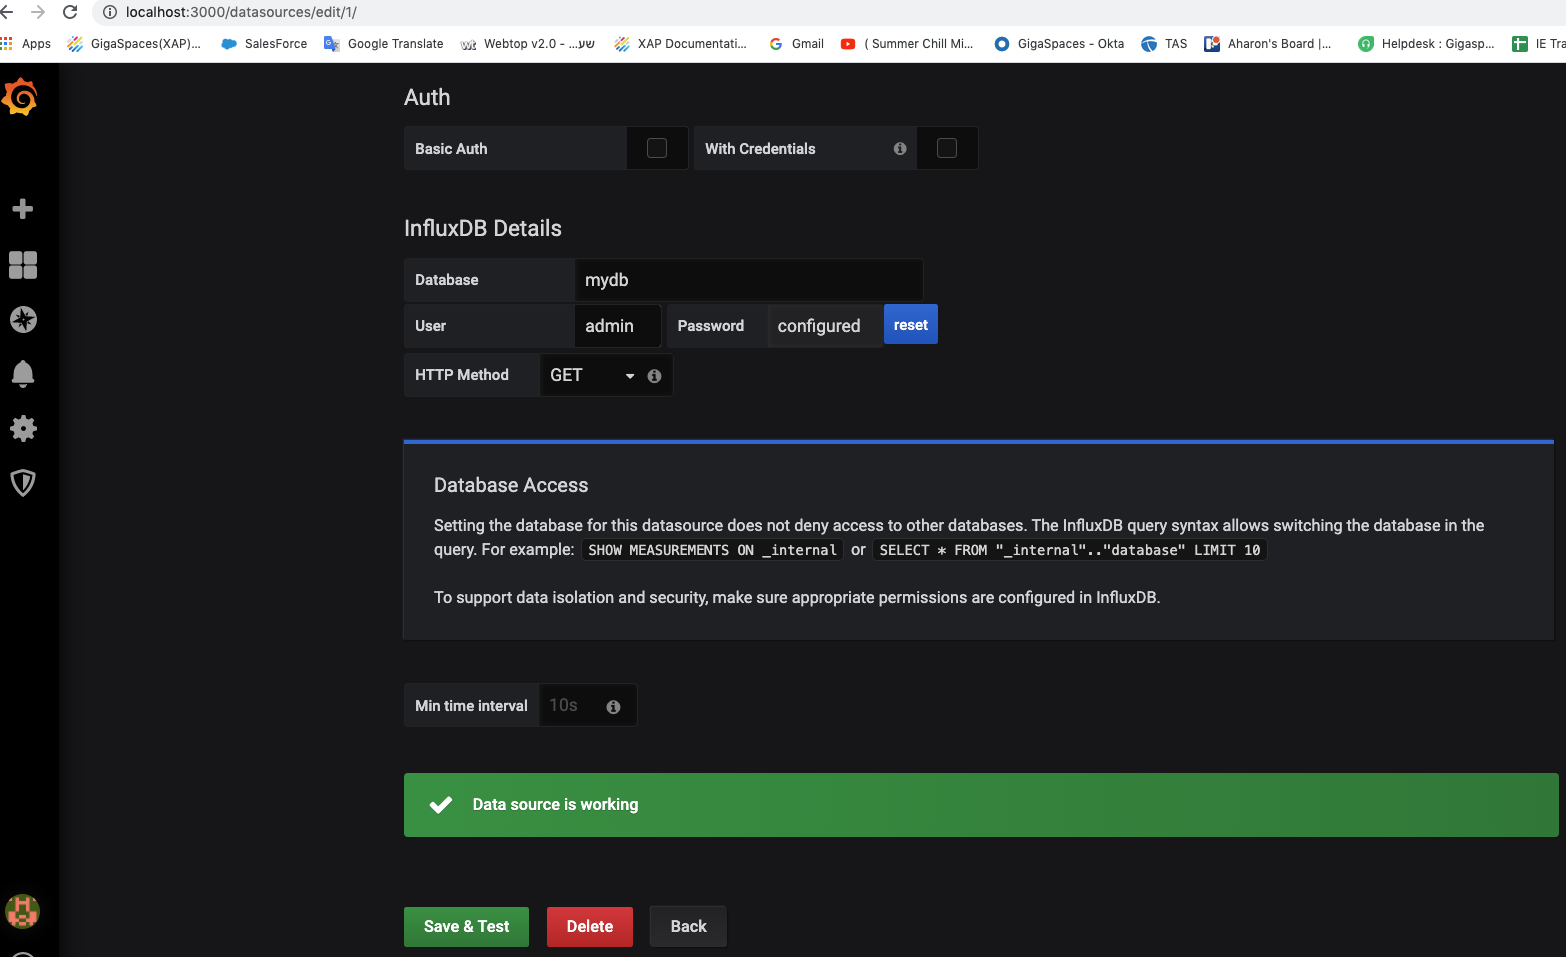
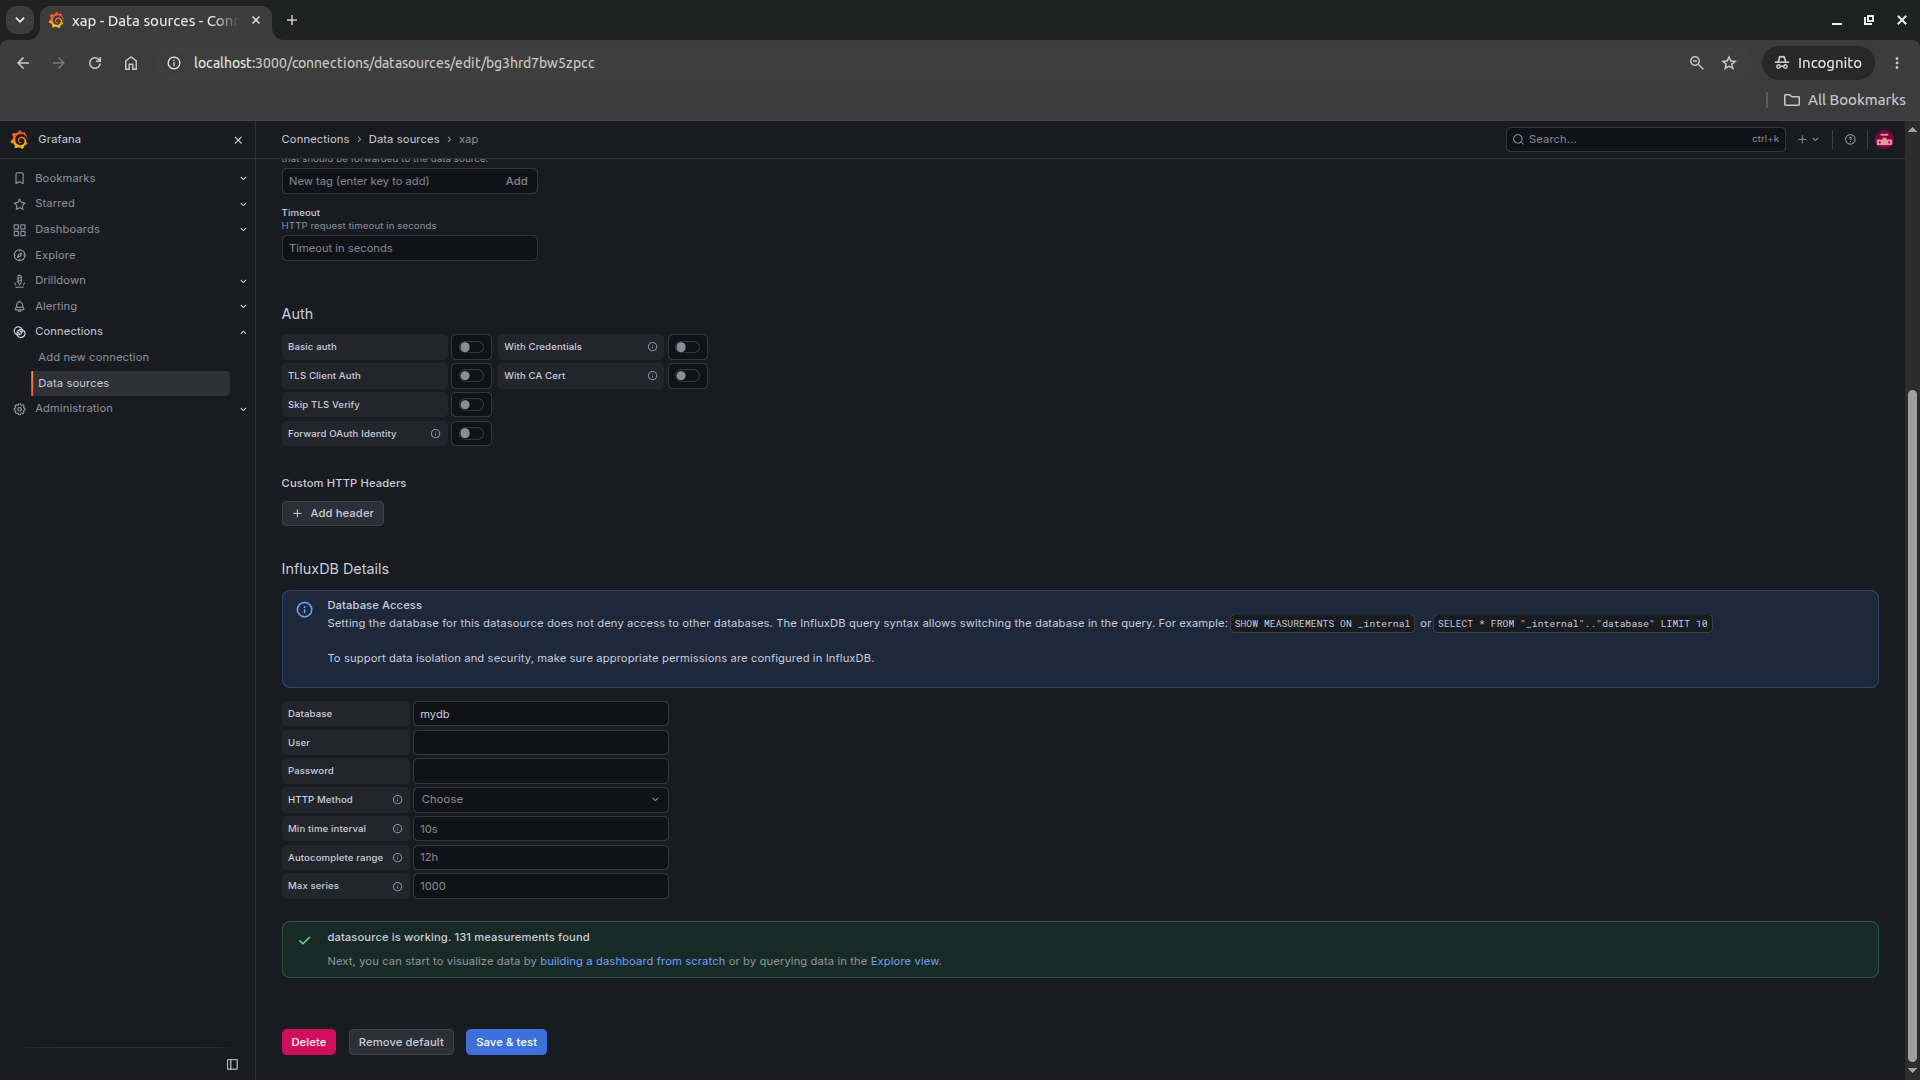
lab06, lab07: update for GigaSpaces 18.0.1
lab06-metrics:
- Replace gs.sh demo with explicit run-agent (--manager --webui --restv3 --gsc=4) and a space deploy
- Use "docker compose"; remove the obsolete "version" key from docker-compose.yaml
- Point to the current metrics-configuration docs page; remove the stale docs link
- Note that Grafana dashboard auto-import fails on current Grafana; import manually
- Remove the browser-access tip and Picture1; replace Picture2 with a Grafana 13.3 screenshot
- Step 7: use writeObjects.sh from lab03 and the "GigaSpaces Spaces dashboard_new" dashboard

lab07-gigaspaces_manager:
- Replace the Vagrant setup with a 4-node Docker Compose cluster (3 managers + 1 GSC host)
- State that Docker Compose is for lab use only; use Kubernetes (lab13) for containers
- Keep the Vagrant instructions as an older version in Vagrant/README.md (17.3.0)
- Update the CLI examples to REST v3 on ports 9091-9093; remove Picture2
- zk-client-example: GigaSpaces 18.0.1, ZooKeeper 3.9.6, connect to localhost:2181

README.md: update the lab07 description

diff --git a/lab07-gigaspaces_manager/README.md b/lab07-gigaspaces_manager/README.md
@@ -4,106 +4,93 @@
 
 ## Lab Goals
 
-1. See how easy it is to setup a GigaSpaces cluster.
-2. Get familiar with GS Manager's capabilities.
+1. Get familiar with GS Manager's capabilities.
 
 ## Lab Description
 In this lab we will focus on the GS Manager functionality.  
-To better know its capabilities you will set up 4 machine cluster based on Vagrant.
+To better know its capabilities you will set up a 4 node cluster with Docker Compose: 3 nodes run a GigaSpaces Manager (node1, node2, node3) and 1 node runs without a manager (node4). Each node is a separate container with its own GigaSpaces agent, like a separate machine.
 
-### 1 Setup Vagrant framework on your machine
+**Note:** Docker Compose is used here only as a lab convenience, to simulate several machines on one computer. It is not a recommended way to deploy GigaSpaces. For a containerized or virtualized environment, use Kubernetes (see [lab13-kubernetes](../lab13-kubernetes)).
 
-#### Install VirtualBox
+*An older version of this lab, which uses VirtualBox and Vagrant, is in [Vagrant/README.md](Vagrant/README.md).*
 
-https://www.virtualbox.org/wiki/Downloads
+### 1 Prerequisites
 
-#### Install Vagrant
+* Docker with Docker Compose (`docker compose`): https://docs.docker.com/compose/install/
+* Your local GigaSpaces installation (`$GS_HOME`), to run the CLI. GigaSpaces 18.0 requires Java 25.
+* About 6 GB of disk space for the `gigaspaces/smart-cache-enterprise` image.
 
-https://www.vagrantup.com/downloads.html
+### 2 Start the cluster
 
-### 2 "vagrant up" and provisioning your virtual machine
+1. `cd $GS_ADMIN_TRAINING/lab07-gigaspaces_manager/docker`
+2. `docker compose up -d`  
+   The first run downloads the `gigaspaces/smart-cache-enterprise:18.0.1` image. To use a different version, set `GS_IMAGE_TAG`, for example `GS_IMAGE_TAG=18.0.0 docker compose up -d`.
+3. Wait about 30 seconds until the managers are up. `docker compose ps` should show node1 to node4 running.
 
-1. `cd ~/gs-admin-training/lab07-gigaspaces_manager/Vagrant`
-2. `vagrant up`
-3. Wait until all 4 virtual machines are booted and ready.
+The [docker-compose.yaml](docker/docker-compose.yaml) file sets `GS_MANAGER_SERVERS=node1,node2,node3` on every node, the same setting you put in `setenv-overrides.sh` in earlier labs. The managers on node1 to node3 form the cluster (ZooKeeper quorum, lookup service and GSM), and node4 joins it as a host with one container (GSC).
 
-See in the following screenshot node3 is done (booted and ready) and immediately after node2 has started to boot...  
-![Screenshot](./Pictures/Picture1.png)
+Each manager's REST Manager (port 9090 inside the container) is mapped to a different port on your machine:
 
-**Note:** For more information on "How to Set Up a Local Linux Environment with Vagrant":  
-`https://medium.com/@JohnFoderaro/how-to-set-up-a-local-linux-environment-with-vagrant-163f0ba4da77`
-
+| Node | Runs | From your machine |
+|------|------|-------------------|
+| node1 | GigaSpaces Manager, REST Manager, web UI | http://localhost:9091 (SpaceDeck), ZooKeeper on localhost:2181 |
+| node2 | GigaSpaces Manager, REST Manager | localhost:9092 |
+| node3 | GigaSpaces Manager, REST Manager | localhost:9093 |
+| node4 | 1 container (GSC), no GigaSpaces Manager | localhost:9094 (nothing answers) |
 
 ### 3 Explore the cluster
 
 Please connect to the REST Manager using the cli. You will need to use your local `$GS_HOME` installation. See commands below.   
-It should be available on all manager machines: node1, node2 and node3.  
-On node4 you shouldn't be able to connect to the REST Manager as it is a machine without GigaSpaces Manager.  
+It should be available on all manager nodes: node1, node2 and node3 (ports 9091, 9092 and 9093).  
+On node4 (port 9094) you shouldn't be able to connect to the REST Manager as it is a node without GigaSpaces Manager.  
 *Note: Use the --server option to connect to a specific GigaSpaces Manager node.*  
 ```
-dixson@dixson-pc:~/gigaspaces-smart-cache-enterprise-17.3.0/bin$ ./gs.sh --server=10.211.55.101:8090 host list
+$ cd $GS_HOME/bin
+$ ./gs.sh --server=localhost:9091 host list
 
-HOST NAME    HOST ADDRESS     CONTAINERS COUNT    
-node4        10.211.55.104    0                   
-node2        10.211.55.102    0                   
-node3        10.211.55.103    0                   
-node1        10.211.55.101    0                   
+HOST NAME    HOST ADDRESS    CONTAINERS COUNT    
+node3        172.18.0.3      0                   
+node1        172.18.0.4      0                   
+node4        172.18.0.5      1                   
+node2        172.18.0.2      0                   
 
 
 SUMMARY        
 Hosts:         4    
-Containers:    0    
+Containers:    1    
 
-dixson@dixson-pc:~/gigaspaces-smart-cache-enterprise-17.3.0/bin$ ./gs.sh --server=10.211.55.101:8090 info
+$ ./gs.sh --server=localhost:9091 info
 
 INFO
-Lookups Groups   xap-17.3.0
+Lookups Groups   xap-18.0.1
 Managers         node1,node2,node3
-Revision         17.3.0
-Started On       2025-10-07 18:30:25.514
-Version          17.3.0
+Revision         18.0.1
+Started On       2026-11-06 16:31:15.852
+Version          18.0.1
 
+$ ./gs.sh --server=localhost:9094 host list
+
+Failed to identify cluster type, please make sure the Manager is up and running
 ```
+Run `host list` with `--server=localhost:9092` and `--server=localhost:9093` too: every manager reports the same 4 hosts.
 
 If you see the above, lab has been completed successfully by you :-)
 
-
-**Tip:**  
-To login to the machines goto the Vagrant directory and run:<br>
-    `vagrant ssh node1` (e.g. login to node1)
+**Tips:**
+* To open a shell on a node, run `docker exec -it node1 bash` (e.g. login to node1). GigaSpaces is installed in `/opt/gigaspaces`, and its logs are in `/opt/gigaspaces/logs`.
+* To see a node's console output, run `docker compose logs node1`.
 
 ### 4 Explore Apache ZooKeeper under the hood (optional section if time permits)
 
- * Open `$GS_TRAINING_HOME/lab07-gigaspaces_manager/zk-client-example` project with Intellij (open pom.xml).
+ * Open `$GS_ADMIN_TRAINING/lab07-gigaspaces_manager/zk-client-example` project with Intellij (open pom.xml).
  * Copy the [runConfigurations](zk-client-example/runConfigurations) directory to .idea folder. Restart Intellij.
  * The project has a simple Java program that can traverse the Zookeeper nodes and print its data.
- * Run the zk-client-example run configuration from Intellij.
- * Explore GS ZK tree to better understand GigaSpaces and the information stored in ZK.
+ * Run the zk-client-example run configuration from Intellij. It connects to node1's ZooKeeper at `localhost:2181`.
+ * Explore GS ZK tree to better understand GigaSpaces and the information stored in ZK. For example, `/zookeeper/config` lists the 3 ZooKeeper servers (node1, node2, node3), and `/xap/managers/gsm/leader-election/participants` has one entry per manager.
 
-### 5 Note:
+### 5 Stop the cluster
 
- * If you see the following error:
-
-The IP address configured for the host-only network is not within the
-allowed ranges. Please update the address used to be within the allowed
-ranges and run the command again.
-
-Continue with the recommendations mentioned.
-
-Edit `/etc/vbox/networks.conf`, add the following:
 ```
-      * 10.0.0.0/8 192.168.0.0/16
-      * 2001::/64
+cd $GS_ADMIN_TRAINING/lab07-gigaspaces_manager/docker
+docker compose down
 ```
- * To determine the ip address to access the ui:
-```
-vagrant ssh node1
-ip address show
-```
-For example:
-| Node | IP Address |
-|------|------------|
-| Node1 | http://10.211.55.101:8090/ |
-| Node2 | http://10.211.55.102:8090/ |
-| Node3 | http://10.211.55.103:8090/ |
-| Node4 | 10.211.55.104 (No web-ui or GigaSpaces Manager running)|     

diff --git a/lab06-metrics/README.md b/lab06-metrics/README.md
@@ -20,10 +20,10 @@ To better understand its capabilities you will set up InfluxDB and Grafana.
 
     * InfluxDB installation using docker compose  
       https://docs.docker.com/compose/install/  
-      `docker-compose` is used for the convenience of managing the network communication between multiple containers. 
+      Docker Compose (`docker compose`) is used for the convenience of managing the network communication between multiple containers. 
       ```
       cd $GS_ADMIN_TRAINING/lab06-metrics
-      docker-compose up
+      docker compose up
       ```
 
 2. Create mydb database
@@ -41,12 +41,12 @@ To better understand its capabilities you will set up InfluxDB and Grafana.
 
 ### 2 Download and install Grafana
 
-1. Choose for your convenient 1 of the following 2 options:
+1. Choose for your convenience, 1 of the following 2 options:
 
    * Grafana regular installation:  
      https://grafana.com/get
    * Grafana installation using docker compose:  
-     Grafana was already started when `docker-compose up` was run for InfluxDB.
+     Grafana was already started when `docker compose up` was run for InfluxDB.
 
 2. Verify Grafana is up and running
 
@@ -57,7 +57,7 @@ To better understand its capabilities you will set up InfluxDB and Grafana.
 
 ### 3 Activate GS metrics
 Please follow instructions at:  
-https://docs.gigaspaces.com/latest/admin/web-management-monitoring.html#InstallingandConfiguringGrafana
+https://docs.gigaspaces.com/latest/admin/metrics-configuration.html#Configuration
 
 *Edit the* `$GS_HOME/config/metrics/metrics.properties` *file, look for the InfluxDB and Grafana sections and uncomment them*.  
 (Beginning with 17.3.0, `metrics.xml` has been replaced by `metrics.properties`.) For this lab the following settings are sufficient:
@@ -76,25 +76,26 @@ grafana.datasource.access=proxy
 ```
 The metrics configuration is read when the service grid starts, so make these changes before running the next step.
 
-### 4 Run GS in Demo mode
-This will start the service grid and deploy a space.
-```
-$GS_HOME/bin/gs.sh demo
-```    
+### 4 Start the service grid and deploy a space
+1. Go to `$GS_HOME/bin`
+2. Make sure `GS_MANAGER_SERVERS` is set in `setenv-overrides.sh`:
+   ```
+   export GS_MANAGER_SERVERS="localhost"
+   ```
+3. Start the service grid: `./gs.sh host run-agent --manager --webui --restv3 --gsc=4`
+4. In a new console window in `$GS_HOME/bin`, deploy a space named `demo` with 2 partitions and 1 backup each:
+   ```
+   ./gs.sh space deploy --partitions=2 --ha demo
+   ```
 ### 5 Explore Grafana dashboards
 
-Please explore Grafana GS dashboard and see that metrics are arriving:  
-https://docs.gigaspaces.com/latest/admin/web-management-monitoring.html#GettingStarted
+Please explore Grafana GS dashboard and see that metrics are arriving:
 
 ![Screenshot](./Pictures/Picture3.png)
 
-Note: GigaSpaces creates the `xap` datasource in Grafana and tries to load the dashboards automatically. If no GigaSpaces dashboards appear in Grafana (check the manager log for `Failed to add dashboard`), import them manually from `$GS_HOME/config/grafana/dashboards` (Grafana: Dashboards | New | Import | Upload dashboard JSON file). Use the files at the top level of that directory (titles ending in `_new`), which match the 17.3.0 metric names; the files under `refs/` are the older dashboards and several of their panels will be empty.
+Note: GigaSpaces creates the `xap` datasource in Grafana and tries to load the dashboards automatically. If no GigaSpaces dashboards appear in Grafana (check the restv3 log, `$GS_HOME/logs/*-gigaspaces-restv3_*.log`, for `Failed to add dashboard`), import them manually from `$GS_HOME/config/grafana/dashboards` (Grafana: Dashboards | New | Import | Upload dashboard JSON file). Use the files at the top level of that directory (titles ending in `_new`), which match the metric names used since 17.3.0 (verified on 18.0.1); the files under `refs/` are the older dashboards and several of their panels will be empty.
 
 ### 6 Troubleshooting:
-
-* Sometimes there is a need to change access from server (default) to Browser.
-  
-![Screenshot](./Pictures/Picture1.png)
 
 * InfluxDB connectivity test can be done:
 ![Screenshot](./Pictures/Picture2.png)
@@ -115,9 +116,11 @@ http://localhost:8086/query?db=mydb&q=SELECT%20*%20from%20%22space_data_total-re
 
 ### 7 Space dashboard:
 
-Please use the GS benchmark tool as you did in lab03-application_components and explore the Space-demo dashboard:
+Write objects to the `demo` space with the benchmark tool from lab03-application_components (`mvn package` in `$GS_ADMIN_TRAINING/lab03-application_components`, then run `scripts/writeObjects.sh`; GigaSpaces 18.0 requires Java 25). Then explore the **GigaSpaces Spaces dashboard_new** dashboard (open it from the Grafana Dashboards list and select Space `demo`) and see the write operations and entries arrive.
+
+*Legacy: the screenshot below shows the older Space-demo dashboard, whose panels used metric names that have since been removed.*
 ![Screenshot](./Pictures/Picture4.png)
 
-### 6 Additional Resources
+### 8 Additional Resources
  * https://hub.docker.com/_/influxdb  
  * https://hub.docker.com/r/grafana/grafana

diff --git a/lab07-gigaspaces_manager/Vagrant/README.md b/lab07-gigaspaces_manager/Vagrant/README.md
@@ -1,0 +1,96 @@
+# gs-admin-training - lab07-gigaspaces_manager (older version: Vagrant)
+
+> **Older version of this lab.** This is the VirtualBox + Vagrant version of lab07, kept for reference. It was last updated for GigaSpaces 17.3.0 and has not been updated for 18.0 (its scripts still install Java 17, download GigaSpaces 17.3.0 and use the REST Manager on port 8090).
+> For the current version of the lab, which uses Docker, see the [lab07 README](../README.md).
+
+## Lab Description
+In this version of the lab you set up a 4 machine cluster based on Vagrant.
+
+### 1 Setup Vagrant framework on your machine
+
+#### Install VirtualBox
+
+https://www.virtualbox.org/wiki/Downloads
+
+#### Install Vagrant
+
+https://www.vagrantup.com/downloads.html
+
+### 2 "vagrant up" and provisioning your virtual machine
+
+1. `cd ~/gs-admin-training/lab07-gigaspaces_manager/Vagrant`
+2. `vagrant up`
+3. Wait until all 4 virtual machines are booted and ready.
+
+See in the following screenshot node3 is done (booted and ready) and immediately after node2 has started to boot...  
+![Screenshot](../Pictures/Picture1.png)
+
+**Note:** For more information on "How to Set Up a Local Linux Environment with Vagrant":  
+`https://medium.com/@JohnFoderaro/how-to-set-up-a-local-linux-environment-with-vagrant-163f0ba4da77`
+
+
+### 3 Explore the cluster
+
+Please connect to the REST Manager using the cli. You will need to use your local `$GS_HOME` installation. See commands below.   
+It should be available on all manager machines: node1, node2 and node3.  
+On node4 you shouldn't be able to connect to the REST Manager as it is a machine without GigaSpaces Manager.  
+*Note: Use the --server option to connect to a specific GigaSpaces Manager node.*  
+```
+dixson@dixson-pc:~/gigaspaces-smart-cache-enterprise-17.3.0/bin$ ./gs.sh --server=10.211.55.101:8090 host list
+
+HOST NAME    HOST ADDRESS     CONTAINERS COUNT    
+node4        10.211.55.104    0                   
+node2        10.211.55.102    0                   
+node3        10.211.55.103    0                   
+node1        10.211.55.101    0                   
+
+
+SUMMARY        
+Hosts:         4    
+Containers:    0    
+
+dixson@dixson-pc:~/gigaspaces-smart-cache-enterprise-17.3.0/bin$ ./gs.sh --server=10.211.55.101:8090 info
+
+INFO
+Lookups Groups   xap-17.3.0
+Managers         node1,node2,node3
+Revision         17.3.0
+Started On       2025-10-07 18:30:25.514
+Version          17.3.0
+
+```
+
+If you see the above, lab has been completed successfully by you :-)
+
+
+**Tip:**  
+To login to the machines goto the Vagrant directory and run:<br>
+    `vagrant ssh node1` (e.g. login to node1)
+
+### 4 Note:
+
+ * If you see the following error:
+
+The IP address configured for the host-only network is not within the
+allowed ranges. Please update the address used to be within the allowed
+ranges and run the command again.
+
+Continue with the recommendations mentioned.
+
+Edit `/etc/vbox/networks.conf`, add the following:
+```
+      * 10.0.0.0/8 192.168.0.0/16
+      * 2001::/64
+```
+ * To determine the ip address to access the ui:
+```
+vagrant ssh node1
+ip address show
+```
+For example:
+| Node | IP Address |
+|------|------------|
+| Node1 | http://10.211.55.101:8090/ |
+| Node2 | http://10.211.55.102:8090/ |
+| Node3 | http://10.211.55.103:8090/ |
+| Node4 | 10.211.55.104 (No web-ui or GigaSpaces Manager running)|     

diff --git a/README.md b/README.md
@@ -13,7 +13,7 @@ For more information please see our [course syllabus](https://docs.google.com/sp
 | 04 | The Bill Buddy Application | Deploy the BillBuddy space, feeders, distributed executor and web app | [lab04-BillBuddy_training_example](lab04-BillBuddy_training_example) |
 | 05 | GigaSpaces SpaceDeck | SpaceDeck tour with the ui-demo tool: alerts (CPU, memory, unavailability, no backups), create/remove containers, scale a service | [lab05-spacedeck](lab05-spacedeck) |
 | 06 | GigaSpaces Metrics | InfluxDB, Grafana dashboards (Docker) | [lab06-metrics](lab06-metrics) |
-| 07 | GigaSpaces Manager | Multi-manager cluster (Vagrant), ZooKeeper client example | [lab07-gigaspaces_manager](lab07-gigaspaces_manager) |
+| 07 | GigaSpaces Manager | Multi-manager cluster (Docker Compose; older Vagrant version kept), ZooKeeper client example | [lab07-gigaspaces_manager](lab07-gigaspaces_manager) |
 | 08 | Hot Deploy Procedure | Update PU code with the custom REST upgrade plugin | [lab08-hot_deploy](lab08-hot_deploy) |
 | 09 | GigaSpaces Command Line Interface | `gs.sh` CLI | [lab09-cli](lab09-cli) |
 | 10 | GigaSpaces Java Admin API | Admin API alerts, RelocatePUI example | [lab10-java_admin_api](lab10-java_admin_api) |
